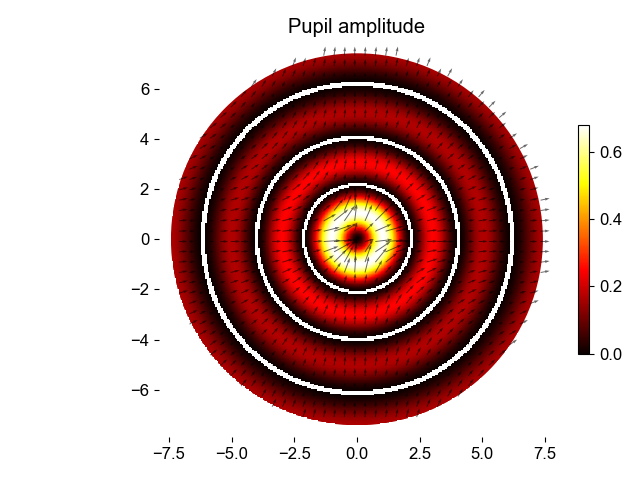
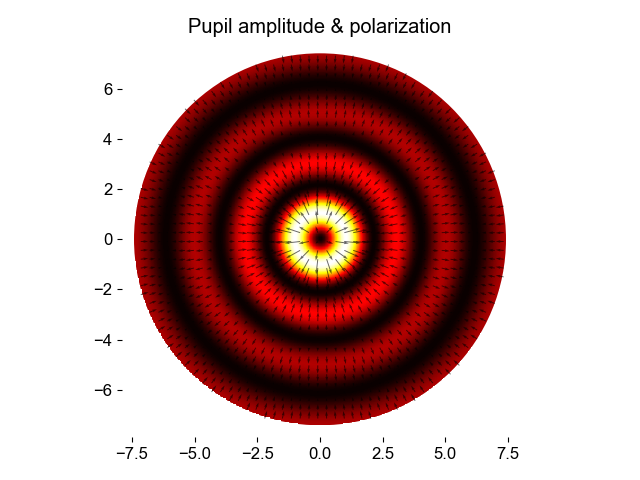
Fixed rplg example and display

diff --git a/foci/debye_wolf.py b/foci/debye_wolf.py
@@ -102,12 +102,12 @@ class VectorialPupil(object):
     @property
     def x_amplitude(self) -> np.ndarray:
         """Returns x-polarized amplitude of pupil field."""
-        return np.abs(self._pupil[:, :, 0] * np.sign(self._pupil[:, :, 0])) * self._aperture_mask
+        return self._pupil[:, :, 0] * self._aperture_mask
     
     @property
     def y_amplitude(self) -> np.ndarray:
         """Returns y-polarized amplitude of pupil field."""
-        return np.abs(self._pupil[:, :, 1] * np.sign(self._pupil[:, :, 1])) * self._aperture_mask
+        return self._pupil[:, :, 1] * self._aperture_mask
 
     @property
     def x_phase(self) -> np.ndarray:
@@ -128,11 +128,13 @@ class VectorialPupil(object):
     def intensity(self) -> np.ndarray:
         return np.real(self.x * np.conj(self.x) + self.y * np.conj(self.y))
     
-    def display(self, downsample: int=None, mask_threshold: float=1E-3, display_phase=True, cmap_amp='Reds', cmap_phase='Blues'):
+    def display(self, mask_threshold: float=1E-9, display_phase=True, display_polarization=True, polarization_downsample: int=None, cmap_amp='Reds', cmap_phase='Blues', display_colorbar=False):
         
-        if downsample is None:
+        if polarization_downsample is None:
             downsample = self.n // 16
-        
+        else:
+            downsample = polarization_downsample
+
         scaled_aperture = self._clear_aperture / MM
         
         extent = np.array([-scaled_aperture / 2, scaled_aperture / 2, -scaled_aperture / 2, scaled_aperture / 2])
@@ -140,15 +142,9 @@ class VectorialPupil(object):
         dx = scaled_x[1] - scaled_x[0]
         dx = dx / MM
 
-        # Quiver plot for polarization direction is downsampled
-        X, Y = np.meshgrid(scaled_x[::downsample], scaled_x[::downsample])
-        u = self.x_amplitude[::downsample, ::downsample]
-        v = self.y_amplitude[::downsample, ::downsample]
-        a = self.intensity()[::downsample, ::downsample]
-        ku = self.x_phase[::downsample, ::downsample]
-        kv = self.y_phase[::downsample, ::downsample]
+        amp = self.intensity()
 
-        mask_im = (self.intensity() < mask_threshold)
+        mask_im = (amp / np.max(amp) < mask_threshold)
         for i, x in enumerate(scaled_x):
             for j, y in enumerate(scaled_x):
                 if np.sqrt(x**2 + y**2) > scaled_aperture / 2:
@@ -158,19 +154,28 @@ class VectorialPupil(object):
         plt.figure('Pupil')
         ax1 = plt.subplot(1, (1, 2)[int(display_phase)], 1)
         ax1.add_artist(plt.Circle((0, 0), radius=scaled_aperture / 2, fill=None, linewidth=3, edgecolor='white'))
-        plt.title('Pupil amplitude')
         ax1.spines['top'].set_visible(False)
         ax1.spines['right'].set_visible(False)
         ax1.spines['bottom'].set_visible(False)
         ax1.spines['left'].set_visible(False)
-        amp = self.intensity()
         amp[mask_im] = np.nan
         im = plt.imshow(amp, extent=extent, cmap=cmap_amp, vmin=0)
-        ax1.quiver(X[mask], Y[mask], dx * downsample / 6 * u[mask], dx * downsample / 6 * v[mask], color='black', alpha=0.6)
+        if display_polarization:
+            plt.title('Pupil amplitude & polarization')
+            X, Y = np.meshgrid(scaled_x[::downsample], scaled_x[::downsample])
+            u = self.x_amplitude[::downsample, ::downsample]
+            v = self.y_amplitude[::downsample, ::downsample]
+            a = self.intensity()[::downsample, ::downsample]
+            ku = self.x_phase[::downsample, ::downsample]
+            kv = self.y_phase[::downsample, ::downsample]
+            ax1.quiver(X[mask], Y[mask], dx * downsample / 6 * u[mask], dx * downsample / 6 * v[mask], color='black', alpha=0.6)
+        else:
+            plt.title('Pupil amplitude')
         ax1.set_aspect('equal')
         ax1.set_xlim(-scaled_aperture / 1.9, scaled_aperture / 1.9)
         ax1.set_ylim(-scaled_aperture / 1.9, scaled_aperture / 1.9)
-        plt.colorbar(im, fraction=0.02, pad=0.04)
+        if display_colorbar:
+            plt.colorbar(im, fraction=0.02, pad=0.04)
         if display_phase:
             pass
         plt.tight_layout()
@@ -390,6 +395,7 @@ class Objective(object):
             zd = np.linspace(0, self._field_depth / 2, self._Z // 2 + 1)
             self._depths = np.concatenate((-zd[:0:-1], zd[:-1]))
         else:
+            self._field_depth = 0
             self._depths = [0]
         
         # Spatial frequency unit and angular bandwidth
@@ -435,7 +441,7 @@ class Objective(object):
         self._done = mp.Event()  # Set on cleanup
     
     def _setup(self):
-        """The most time-consuming operations carried out the first time an Objective is used to simulate should be here."""
+        # The most time-consuming operations carried out the first time an Objective is used should be here
         if self._parallelized:
             # Set up sync system
             self._abort_event = mp.Event()

diff --git a/examples/rplg.py b/examples/rplg.py
@@ -28,7 +28,7 @@ except ModuleNotFoundError:  # If not installed, assume user is running from \ex
 
 
 def lgbeam(r, p, beta, pupil_diameter):
-    """Laguerre-Gaussian beam as in [1]"""
+    """Laguerre-Gaussian beam as in [1]."""
     D4sigma = pupil_diameter / beta
     w0 = D4sigma / (2 * np.sqrt(2*p + 2))
     return r/w0 * np.exp(-r**2/w0**2) * L(p, 1)((2*r**2) / w0**2)
@@ -51,7 +51,7 @@ N = 256
 Z = 256
 
 print('Precomputing forward model of Olympus UPLSAPO 100XO...')
-obj = debye_wolf.Objective(WAVELENGTH, FIELD_INDEX, FOCAL_LENGTH, PUPIL_DIAMETER, N, FIELD_WIDTH)
+obj = debye_wolf.Objective(WAVELENGTH, FIELD_INDEX, FOCAL_LENGTH, PUPIL_DIAMETER, N, FIELD_WIDTH, z=Z, field_depth=FIELD_DEPTH)
 print('...simulated objective with NA={:.3f}'.format(obj._na))
 
 # %% Calculate 3rd order radially-polarized Laguerre-Gaussian pupil
@@ -66,14 +66,14 @@ pupil = debye_wolf.VectorialPupil(pupil_x=pupil_x, diameter=PUPIL_DIAMETER)
 pupil = debye_wolf.vortical_polarize(pupil, angle=0)
 
 start = time.time()
-field = obj.focus(pupil, Z, FIELD_DEPTH)
+field = obj.focus(pupil)
 elapsed = time.time() - start
 print('Simulated {} planes, {:.3f} ms per plane, {:.3f} s total.'.format(Z, (elapsed * 1000) / Z, elapsed))
 psf = field.intensity()
 
 # %% Generate figures
 
-pupil.display(downsample=7, cmap_amp='hot', display_phase=False)
+pupil.display(polarization_downsample=6, cmap_amp='hot', display_phase=False)
 plt.savefig('rplg-example-pupil')
 
 plt.figure('RP-LG PSF')
